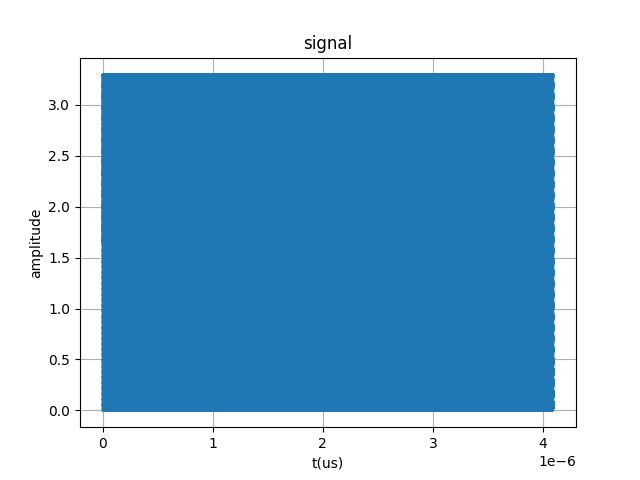
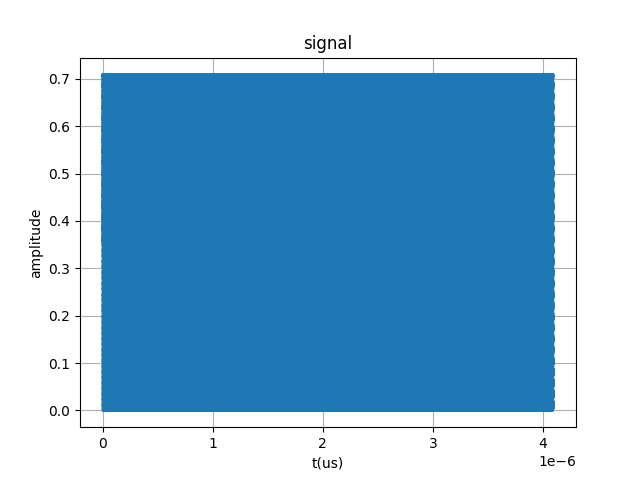
main.py finished

diff --git a/apsera_sim/main.py b/apsera_sim/main.py
@@ -4,75 +4,117 @@ import matplotlib.pyplot as plt
 import numpy as np
 from sine_input import sine_curve
 from adc import sample,adc
-from window import window_bits
+from window import window_bits,window_precision
 from fft_12 import fft
+from truncating import truncate
 
 M = 16
 N = 1024
 P = M*N
 alpha = 1
-n_bits = 14
+n_bits = [8,10,12,14,16]
+adc_bits = 12
+w_bit = 18
 v_ref = 0.7096 # to keep output power that is adc at 1dBm of input 
 f = 5e8
 sampling_rate = 1e12 # for producing sine wave
 adc_sampling_rate = 4e9
 fft_points = 16*2**10
 
-duration = fft_points/adc_sampling_rate # duration such that when sampled we get appropriate no. of points
+# duration such that when sampled we get appropriate no. of points
+duration = fft_points/adc_sampling_rate 
 
 time,vin_values = sine_curve(f,sampling_rate,duration,v_ref)
 
-adc_time,adc_signal = sample(time,adc_sampling_rate,vin_values) # sample and hold
+# sample and hold
+adc_time,adc_signal = sample(time,adc_sampling_rate,vin_values) 
 
-digital_values = [adc(vin,n_bits,v_ref) for vin in adc_signal] 
+#passing adc
+digital_values = [adc(vin,adc_bits,v_ref) for vin in adc_signal] 
 
-digital_values_no_offset = digital_values - np.mean(digital_values) # removing dc offset 
+# removing dc offset
+digital_values_no_offset = digital_values - np.mean(digital_values)  
 
-digital_values_no_offset = np.array((digital_values_no_offset)*2)/2**(n_bits) # normalising signal to regular sine wave
+# normalising signal to regular sine wave for right fft amplitude 
+digital_values_no_offset = np.array((digital_values_no_offset)*2)/2**(adc_bits) 
 
-w_signal,gain = window_bits(digital_values_no_offset,n_bits)
-windowed = digital_values_no_offset * w_signal # windowing signal
+w_signal,gain_bits = window_bits(adc_time,w_bit)
+w_signal_fp,gain_fp = window_precision(adc_time)
+windowed_fp = digital_values_no_offset * w_signal_fp # windowing fp
+windowed_30 = digital_values_no_offset * w_signal # windowing signal
 
-freq,mag = fft(M,N,P,windowed,adc_sampling_rate,gain)
-
-plt.plot(adc_time, adc_signal,linestyle = 'dashed')
-plt.xlabel('t(us)')
-plt.ylabel('amplitude')
-plt.title('signal')
-plt.grid(True)
-plt.savefig("input_main.png")
-plt.show()
-plt.close()
-
-plt.step(adc_time*1e6, digital_values, where ='post')
-plt.xlabel('time(us)')
-plt.ylabel('Digital Output (Decimal)')
-plt.title(f'{n_bits}-bit ADC Conversion')
-plt.grid(True)
-# plt.xlim(1,1.05)
-plt.show()
-plt.savefig("adc_main.png")
-
-plt.step(adc_time*1e6,windowed,where = 'post')
-plt.xlabel('t(us)')
-plt.ylabel('amplitude')
-plt.title('windowed_signal')
-plt.grid(True)
-# plt.xlim(1,1.05) 
-plt.savefig("windowed_main.png")
-plt.show()
-plt.close()
-
+#fft of 64 bit
+freq_fp = np.fft.fftfreq(fft_points, d = 1/adc_sampling_rate)[:fft_points]
+freq_fp_shift = np.fft.fftshift(freq_fp)
+y_fp = np.fft.fft(windowed_fp,n=fft_points)
+y_fp_shift = np.fft.fftshift(y_fp)
+mags_fp_shift = np.abs(y_fp_shift)/(P*gain_fp)
+eps = 1e-12 # adding to avoid 0
+mags_db = 20*np.log10(mags_fp_shift/(np.max(mags_fp_shift)+eps))
 plt.figure(figsize=(12, 6))
-plt.plot(freq, mag, label='Row-Column FFT')
-plt.title("Magnitude Spectrum (Row-Column FFT, M=16, N=1024)")
+plt.plot(freq_fp_shift, mags_db, label='full precision fft')
+
+#fft of 30 bit (adc_bit = 12 window_bit_precision = 18(arch of dsp_slice on red pitaya))
+freq_30 = np.fft.fftfreq(fft_points, d = 1/adc_sampling_rate)[:fft_points]
+freq_30_shift = np.fft.fftshift(freq_30)
+y_30 = np.fft.fft(windowed_30,n=fft_points)
+y_30_shift = np.fft.fftshift(y_30)
+mags_30_shift = np.abs(y_30_shift)/(P*gain_bits)
+mags_db_30 = 20*np.log10(mags_30_shift/(np.max(mags_30_shift)+eps))
+plt.plot(freq_30_shift, mags_db_30, label='30 bit fft')
+
+diff = {} # intialize dictionaries to graph , each diff[bit] = list for key bit
+diff_mean={}
+
+#fft for truncated signal 
+for bit in n_bits:
+    windowed_truncate = truncate(bit,windowed_30)
+    freq_truncated,mags_truncated = fft(M,N,P,windowed_truncate,adc_sampling_rate,gain=1)
+    mags_trunc_db = 20*np.log10(mags_truncated/(np.max(mags_truncated)+eps))
+    diff_linear = np.abs(mags_truncated-mags_30_shift)
+    diff[bit] = 20*np.log10(diff_linear+eps)
+    diff_mean[bit] = 20*np.log10(np.mean(diff_linear)+eps)
+    diff_mean[bit] = np.mean(diff[bit])
+    plt.plot(freq_truncated, mags_trunc_db, label=f'{bit}-bit Truncated FFT' )
+
+plt.title("30 and n_bits fft ")
 plt.xlabel("Frequency (Hz)")
-plt.ylabel("|X(f)|")
+plt.ylabel("|X(f)| in db")
 plt.xlim(-4000e6, 4000e6)
 plt.grid(True)
 plt.legend()
 plt.tight_layout()
 plt.show()
-plt.savefig("fft_main.png")
+plt.savefig("fft_main_18-22b.png")
+
+plt.figure(figsize=(12,6))
+for bit in n_bits:
+    plt.plot(freq_truncated,diff[bit],label = f'{bit}-bit error with 30 bit')
+plt.title('error in db scale_18-22b')
+plt.xlabel('frequency (hz)')
+plt.ylabel("error in db")   
+plt.xlim(-4000e6, 4000e6)
+plt.grid(True)
+plt.legend()
+plt.tight_layout()
+plt.show()
+plt.savefig("fft_error_8-16b.png") 
+
+bit_vals = list(diff_mean.keys())
+mean_errors_db = list(diff_mean.values())
+
+plt.figure(figsize=(12,6))
+plt.plot(bit_vals,mean_errors_db,label = f'{bit}-bit mean error with 30 bit')
+plt.title('error in db scale (mean)')
+plt.xlabel('bits')
+plt.ylabel("error in db")   
+plt.grid(True)
+plt.legend()
+plt.tight_layout()
+plt.show()
+plt.savefig("fft_error_mean_8-16b.png") 
+
+# from graph we can conclude 10 bit or 12 bit is sufficient truncation as error beyond 12 bit 
+# is not reducing by much
 
 

diff --git a/apsera_sim/main_adc.py b/apsera_sim/main_adc.py
@@ -9,7 +9,7 @@ N = 1024
 P = M*N
 n_bits = 12
 v_ref = 0.7096 # calculated to keep the power = 1dBm 
-f = 2e8
+f = 5e8
 adc_sampling_rate = 4e9
 fft_points = 16*2**10
 sampling_rate=1e12
@@ -20,7 +20,7 @@ t,sine_sig=sine_curve(f,sampling_rate,duration,v_ref)
 
 time_sine,sine_signal = sample(t,adc_sampling_rate,sine_sig)
 sine_signal_scaled = ((sine_signal)*2)/v_ref
-sine_signal_scaled = np.array(sine_signal_scaled)*2048
+sine_signal_scaled = np.array(sine_signal_scaled)*(2**(n_bits-1))
 sine_signal_fft = sine_signal_scaled - np.mean(sine_signal_scaled)
 sine_og = ((sine_signal - np.mean(sine_signal))*2)/v_ref
 
@@ -32,7 +32,10 @@ plt.grid(True)
 plt.savefig("fp_signal.png")
 plt.show()
 
-freqs_fp,mags_fp = fft(M,N,P,sine_signal_fft,adc_sampling_rate,gain=1)
+sine_signal_fft = sine_signal_fft/(2**(n_bits-1))
+freqs_fp = np.fft.fftfreq(fft_points,d=1/adc_sampling_rate)[:fft_points]
+y = np.fft.fft(sine_signal_fft,n=fft_points)
+mags_fp = np.abs(y)/fft_points
 
 plt.figure(figsize=(12, 6))
 plt.plot(freqs_fp, mags_fp, label='Full-Precision Signal FFT')
@@ -65,7 +68,7 @@ freqs_n_bits,mags_n_bits = fft(M,N,P,no_offset_dig,adc_sampling_rate,gain=1)
 
 plt.figure(figsize=(12, 6))
 plt.plot(freqs_n_bits, mags_n_bits, label='n_bits Signal FFT')
-plt.title("FFT of f'{n_bit} Signal (Row-Column FFT)")
+plt.title("FFT of" f'{n_bits} Signal (Row-Column FFT)')
 plt.xlabel("Frequency (Hz)")
 plt.ylabel("|X(f)|")
 plt.grid(True)
@@ -77,7 +80,7 @@ diff_mag = mags_fp - mags_n_bits
 
 plt.figure(figsize=(12, 6))
 plt.plot(freqs_n_bits, diff_mag, label='n_bits Signal FFT')
-plt.title("FFT of f'{n_bit} Signal (Row-Column FFT)")
+plt.title("FFT of" f'{n_bits} Signal (Row-Column FFT)')
 plt.xlabel("Frequency (Hz)")
 plt.ylabel("|X(f)|")
 plt.grid(True)
@@ -91,7 +94,7 @@ for x in range (0,len(no_offset_dig)):
 
 plt.figure(figsize=(12, 6))
 plt.plot(adc_time, diff, label='error')
-plt.title("error of f'{n_bit} Signal (Row-Column FFT)")
+plt.title("error of" f'{n_bits} Signal (Row-Column FFT)')
 plt.xlabel("Frequency (Hz)")
 plt.ylabel("LSB")
 plt.grid(True)

diff --git a/apsera_sim/main_window.py b/apsera_sim/main_window.py
@@ -24,6 +24,7 @@ freq_full_precision_shift = np.fft.fftshift(freq_full_precision) # o/p shift to 
 freqs_precision = np.fft.fftshift(np.fft.fftfreq(fft_len,d=dt))  #bin-shift to center
 
 eps = 1e-12 # to avoid dividing by 0
+#dividing each point by its max 
 freq_full_precision_shift_db = 20 * np.log10(np.abs(freq_full_precision_shift) / np.max(np.abs(freq_full_precision_shift))+eps)
 plt.plot(freqs_precision, freq_full_precision_shift_db, label='Full-Precision Window')
 
@@ -33,9 +34,8 @@ for bit in n_bits:
     freq_n_bits_shift = np.fft.fftshift(freq_n_bits) # o/p shift
     freqs_bits = np.fft.fftshift(np.fft.fftfreq(fft_len,d=dt))  #bin-shift 
     freq_n_bits_shift_db = 20 * np.log10(np.abs(freq_n_bits_shift) / np.max(np.abs(freq_n_bits_shift))+eps)
-    plt.plot(freqs_bits, freq_n_bits_shift_db, label=f'{bit}-bit Truncated Window', linestyle='--', linewidth=1.5)
+    plt.plot(freqs_bits, freq_n_bits_shift_db, label=f'{bit}-bit Truncated Window')
 
-plt.xlim(-200e6, 200e6)
 plt.title(f"Magnitude Spectrum db (Row-Column FFT, M={M}, N={N}, n_bits={n_bits})")
 plt.xlabel("Frequency (Hz)")
 plt.ylabel("|X(f)|")

diff --git a/apsera_sim/truncating.py b/apsera_sim/truncating.py
@@ -1,0 +1,13 @@
+import numpy as np
+
+def truncate(n_bits,windowed_sig):
+    max_int = 2**n_bits - 1
+    # bring b/w 0 and 1
+    windowed_scale = windowed_sig/np.max(windowed_sig)  
+    # assign appropriate integers depending upon bits
+    windowed_truncated = np.round(windowed_scale * max_int).astype(int) 
+    
+    windowed_truncated_final = windowed_truncated/max_int
+    
+    return windowed_truncated_final
+    
